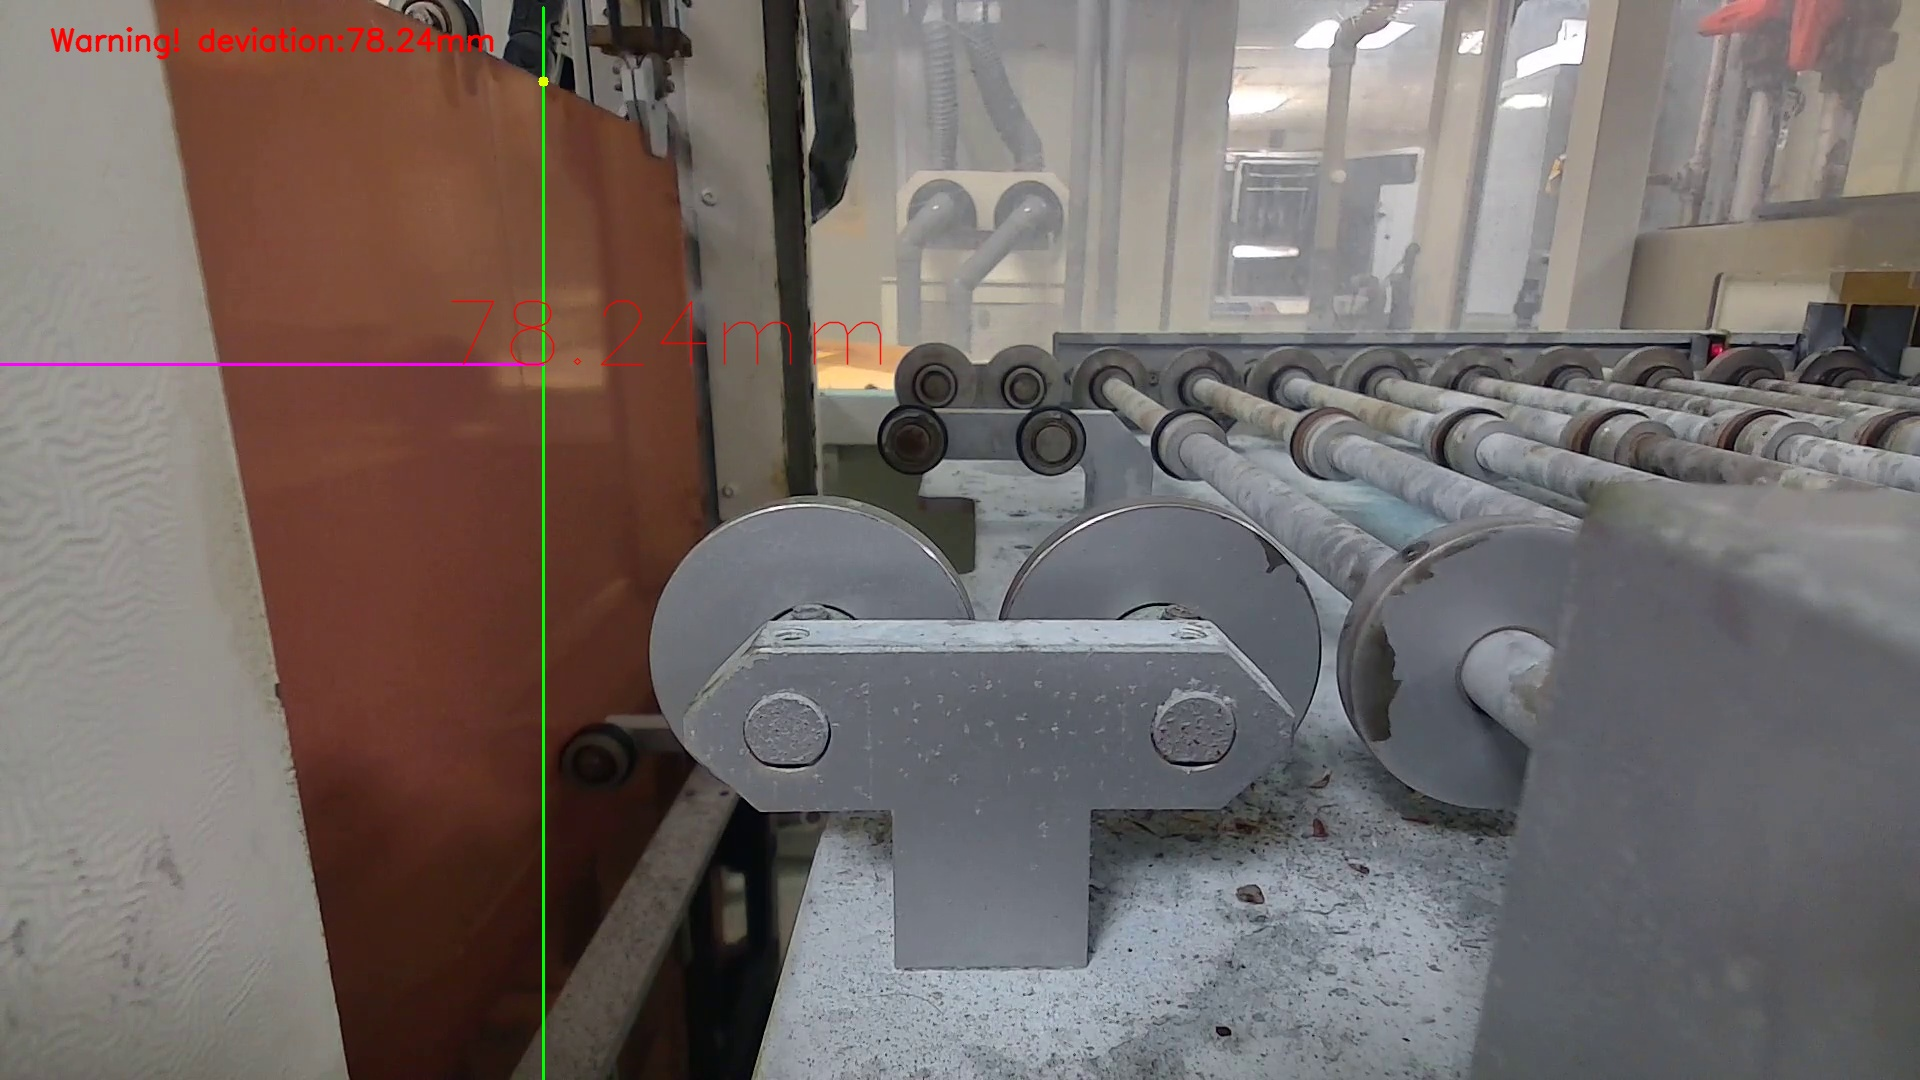
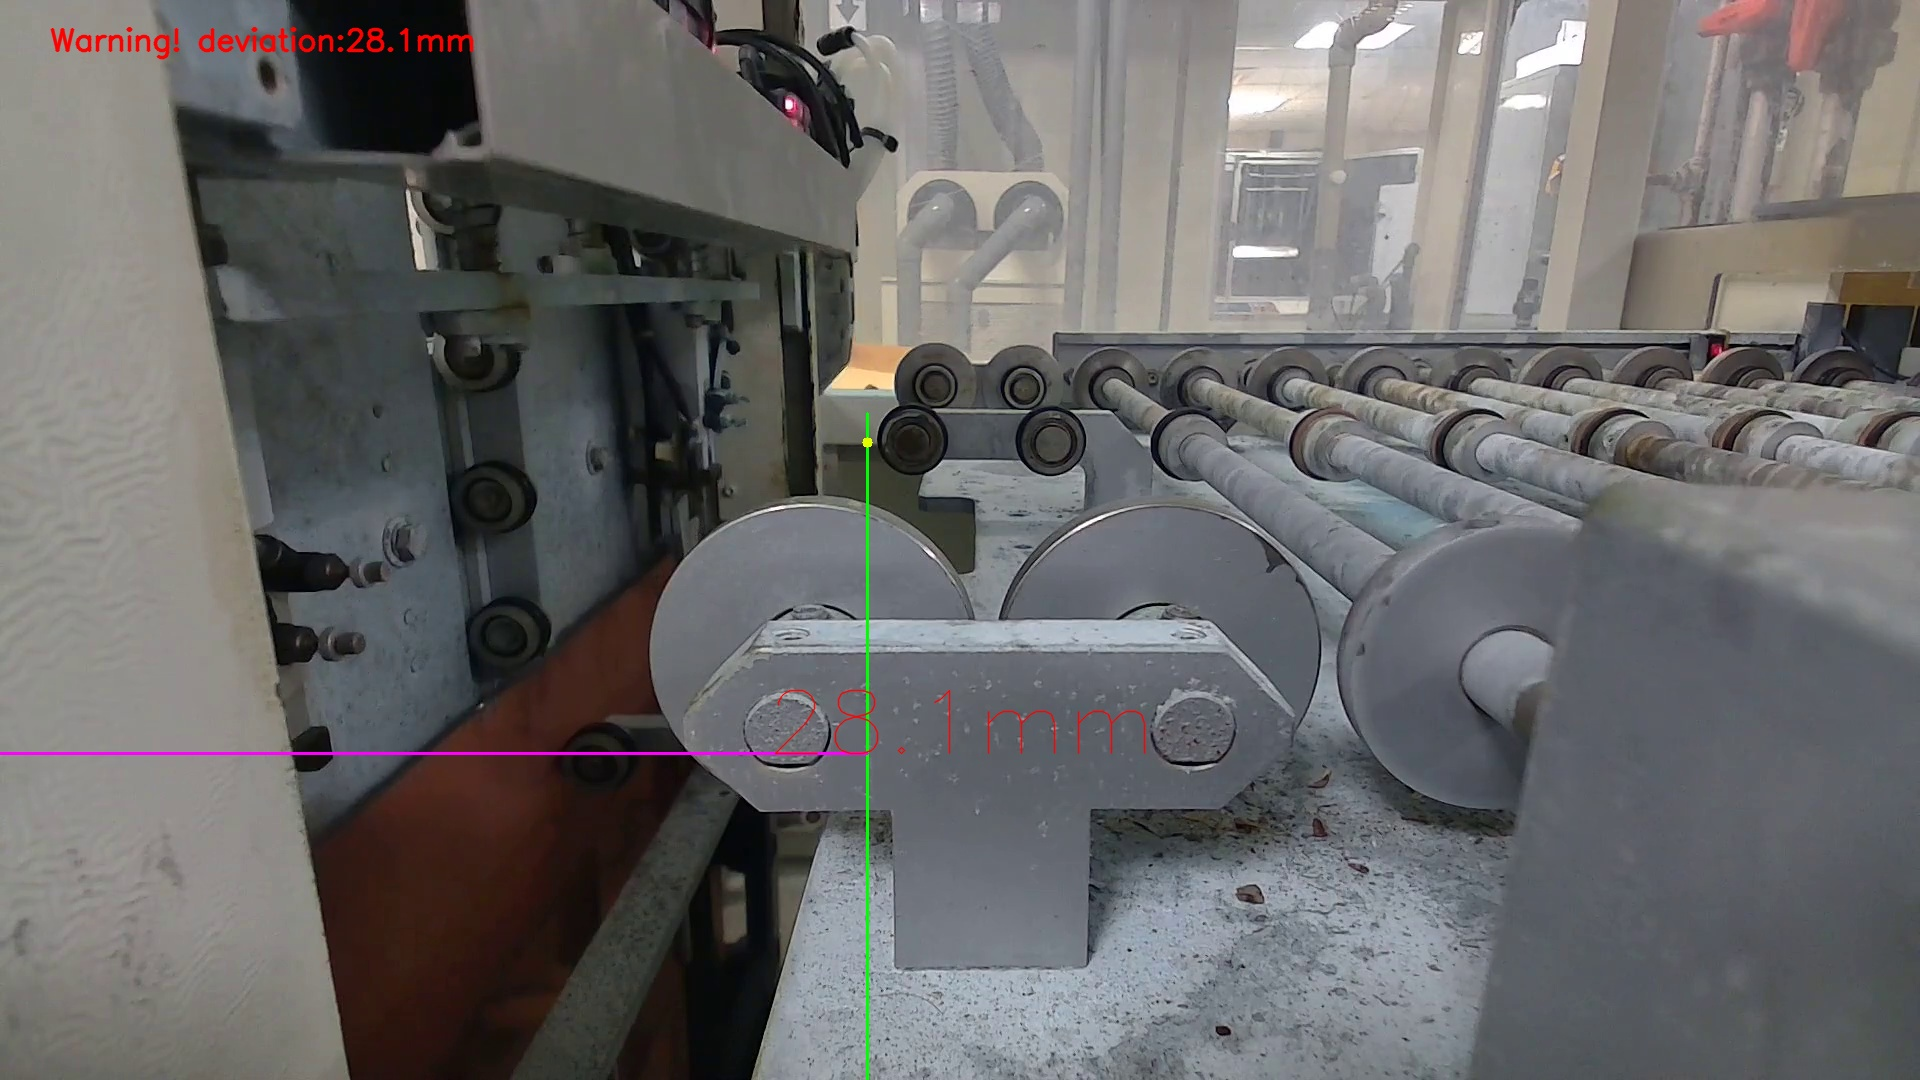
kinsus_0919

diff --git a/pyside/main.py b/pyside/main.py
@@ -116,14 +116,14 @@ class MainWindow(QMainWindow):
         if len_cap != 0:
             for cam in self.cap:   
                 if cam == 0:
-                    status0 ,frame0 = self.cap[cam].get_frame()
+                    status0 ,frame0 = self.cap[cam].get_frame(stream = True)
                     if status0:
                         frame0 = self.webcam_display(frame0)
                         self.ui.label_Cam1.setPixmap(frame0)
                         self.ui.label_Cam1.setScaledContents(True)
                 
                 elif cam == 1:
-                    status1, frame1 = self.cap[cam].get_frame()
+                    status1, frame1 = self.cap[cam].get_frame(stream = True)
                     if status1:
                         frame1 = self.webcam_display(frame1)
                         self.ui.label_Cam2.setPixmap(frame1)
@@ -180,6 +180,7 @@ class MainWindow(QMainWindow):
 #%%        
 height = 1
 class SubWindow(QWidget):
+    
     def __init__(self, parnet=None, camViewFlag=None):
         super(SubWindow, self).__init__(parnet)
         self.initUI()
@@ -206,8 +207,23 @@ class SubWindow(QWidget):
         self.frame_width = self.tabui.label.size().width()
         self.frame_height = self.tabui.label.size().height()    
 
+    def webcam_display(self, frame):
+        ''' 處理OpenCV圖片轉QPixmap '''
+        height, width, depth = frame.shape
+        frame = cv2.cvtColor(frame, cv2.COLOR_RGB2BGR)
+        cvimg = QImage(frame.data, frame.shape[1], frame.shape[0], frame.shape[1] * 3, QImage.Format_RGB888)
+        return QPixmap.fromImage(cvimg)
+
     def tab_item_change(self, item):
-        print(item.row())
+        global height
+        if item.row() == 8:
+            h = int(self.tabui.tableWidget_2.item(item.row(), 0).text())
+            height = h  
+            self.tabui.label.setStyleSheet('')
+        print(height) 
+        
+        self.label_show.painter.drawLine(int(0), int(50), 0, int(100)) 
+        
         ''' 表格內容被修改時 '''
         config.read(r'./cfg/Service.cfg')
         options_num = config.options('Threshold' + str(self.cam_No))
@@ -215,6 +231,8 @@ class SubWindow(QWidget):
         with open(r'./cfg/Service.cfg', 'w') as f:
             config.write(f)
         f.close()
+
+        
             
     def cfg_load(self, str1):      
         ''' 讀取cfg檔資訊 '''
@@ -225,10 +243,17 @@ class SubWindow(QWidget):
         
         for i in range(1 , len(options_num)):
             self.tabui.tableWidget_2.setItem(0, (i-1), QTableWidgetItem(config.get('Threshold'+ str(self.cam_No), options_num[i])))
+
     
     def showCam1(self):
+        
+        self.tabui.Cam2_btn.setStyleSheet("")
+        self.tabui.Cam1_btn.setStyleSheet("background-color: yellow")
+        
         self.tabui.label.setStyleSheet('')
-        self.tabui.label.setPixmap(window.ui.label_Cam1.pixmap())
+        _ ,frame = camDict[0].get_frame(stream = False)
+        frame = self.webcam_display(frame)
+        self.tabui.label.setPixmap(frame)
         self.tabui.label.setScaledContents(True)
         self.label_show.setGeometry(0, 0, self.frame_width, self.frame_height)
         self.tabui.label.setStyleSheet('border-width: 1px;border-style: solid;border-color: rgb(0, 0, 139);')
@@ -240,8 +265,13 @@ class SubWindow(QWidget):
             self.cam_No = 0
                   
     def showCam2(self): 
+        self.tabui.Cam1_btn.setStyleSheet("")
+        self.tabui.Cam2_btn.setStyleSheet("background-color: yellow")
+        
         self.tabui.label.setStyleSheet('')
-        self.tabui.label.setPixmap(window.ui.label_Cam2.pixmap())
+        _ ,frame = camDict[1].get_frame(stream = False)
+        frame = self.webcam_display(frame)
+        self.tabui.label.setPixmap(frame)
         self.tabui.label.setScaledContents(True)
         self.label_show.setGeometry(0, 0, self.frame_width, self.frame_height)
         self.tabui.label.setStyleSheet('border-width: 1px;border-style: solid;border-color: rgb(0, 0, 139);')
@@ -260,63 +290,77 @@ class SubWindow(QWidget):
         self.label_show.setGeometry(0, 0, self.frame_width, self.frame_height)
         self.tabui.label.setStyleSheet('border-width: 1px;border-style: solid;border-color: rgb(0, 0, 139);')
         self.label_show.show()
+        
 #%%
 
 ##########  滑鼠控制 ##########
-class MouseTracker(QLabel):       
-    tab_signal = Signal(str)
+class MouseTracker(QLabel):  
+    global height   
     
+    tab_signal = Signal(str)
     def __init__(self, parnet=None, camViewFlag=None):
         super(MouseTracker, self).__init__(parnet)
         self.pos_x = QPoint()
         self.pos_y = QPoint()
         self.camViewFlag = camViewFlag
         
-        self.pt_height = 0 
+        self.pt_height = height
+        self.pixeltomm = 1 
+        
     #按下鼠標
     def mousePressEvent(self, event):
         self.pos_x = event.pos().x()
         self.pos_y = event.pos().y()
-             
+        self.update()
+#        ###WY
+#        Srvcfg = configparser.ConfigParser()
+#        Srvcfg.read(r'./cfg/Service.cfg')
+#        if self.camViewFlag[0]:
+#            self.pt_height = int(Srvcfg.get('Threshold0', 'detecetheight'))
+#        elif self.camViewFlag[1]:
+#            self.pt_height = int(Srvcfg.get('Threshold1', 'detecetheight'))
     #释放鼠標
     def mouseReleaseEvent(self, event):      
-        reply = QMessageBox.warning(self, 'Warning','確定選擇該位置', QMessageBox.Ok, QMessageBox.Cancel)
+        reply = QMessageBox.question(self, '系統訊息','確定選擇該位置', QMessageBox.Ok, QMessageBox.Cancel)
         if reply == QMessageBox.Ok:
             Srvcfg = configparser.ConfigParser()
             Srvcfg.read(r'./cfg/Service.cfg')
     
             if self.camViewFlag[0]:   # Cam1
                 self.pt_height = int(Srvcfg.get('Threshold0', 'detecetheight'))
-                Srvcfg['Threshold0']['detecetpixel'] = str([self.pos_x, self.pos_y])
+                Srvcfg['Threshold0']['detecetpixel'] = str([int(self.pos_x * 1920/self.size().width()), int(self.pos_y * 1080/self.size().height())])
+                self.pixeltomm = eval(Srvcfg.get('Threshold0', 'pixeltomm'))
                 with open(r'./cfg/Service.cfg', 'w') as f:
                     Srvcfg.write(f)
+
             elif self.camViewFlag[1]:   # Cam2:
                 self.pt_height = int(Srvcfg.get('Threshold1', 'detecetheight'))
-                Srvcfg['Threshold1']['detecetpixel'] = str([self.pos_x, self.pos_y])
+                Srvcfg['Threshold1']['detecetpixel'] = str([int(self.pos_x * 1920/self.size().width()), int(self.pos_y * 1080/self.size().height())])
+                self.pixeltomm = eval(Srvcfg.get('Threshold1', 'pixeltomm'))  
                 with open(r'./cfg/Service.cfg', 'w') as f:
                     Srvcfg.write(f) 
-                    
+
+            for i in range(2):
+                camDict[i].cam.reload_config()
+            event.accept()                    
             self.tab_signal.emit('1') # 發送訊號給setting視窗   
         else:
+            event.ignore()
             pass
-        
         self.update()       
 
     #繪制事件
     def paintEvent(self, event): 
-        global height
-        
+        Srvcfg = configparser.ConfigParser()
+        Srvcfg.read(r'./cfg/Service.cfg')                 
         super().paintEvent(event)
-        painter = QPainter(self)
+        self.painter = QPainter(self)
         if (self.pos_x) and (self.pos_y):
-            painter.setPen(QPen(QColor(255,20,147), 1, Qt.SolidLine))
-            painter.drawLine(int(self.pos_x), int(self.pos_y), 0, int(self.pos_y)) 
-            painter.setPen(QPen(Qt.green, 1, Qt.SolidLine))
-            painter.drawLine(int(self.pos_x), int(self.pos_y) - self.pt_height, int(self.pos_x), 959)    
-
-
-
-    
+            self.painter.setPen(QPen(QColor(255,20,147), 1, Qt.SolidLine))
+            self.painter.drawLine(int(self.pos_x), int(self.pos_y), 0, int(self.pos_y)) 
+            self.painter.setPen(QPen(Qt.green, 1, Qt.SolidLine))
+            self.painter.drawLine(int(self.pos_x), int(self.pos_y) - int(self.pt_height / self.pixeltomm / 1080 * self.size().height()), int(self.pos_x), 1080)    
+        
 if __name__ == '__main__': 
     camDict = {}
     for i in range(2):

diff --git a/pyside/curve.py b/pyside/curve.py
@@ -50,23 +50,6 @@ def save_log(dateText, camID, resultStatus, curvedMEAS):
 
 class Warpdetection():  
     def __init__(self, device):
-        Srvcfg = configparser.ConfigParser()
-        Srvcfg.read('./cfg/Service.cfg')
-        self.substrateLength = eval(Srvcfg.get('Threshold{}'.format(device), 'substrateLength'))
-        self.lowThreshold = eval(Srvcfg.get('Threshold{}'.format(device), 'lowThreshold'))
-        self.highThreshold = eval(Srvcfg.get('Threshold{}'.format(device), 'highThreshold'))
-        self.lowerRed0 = np.array(eval(Srvcfg.get('Threshold{}'.format(device), 'lower_red_0')))
-        self.upperRed0 = np.array(eval(Srvcfg.get('Threshold{}'.format(device), 'upper_red_0')))
-        self.lowerRed1 = np.array(eval(Srvcfg.get('Threshold{}'.format(device), 'lower_red_1')))
-        self.upperRed1 = np.array(eval(Srvcfg.get('Threshold{}'.format(device), 'upper_red_1')))
-        self.pixeltomm = eval(Srvcfg.get('Threshold{}'.format(device), 'pixeltomm'))
-        self.detecetPixel = eval(Srvcfg.get('Threshold{}'.format(device), 'detecetPixel'))
-        detecetHeight = eval(Srvcfg.get('Threshold{}'.format(device), 'detecetHeight'))
-        self.NGThreshold = eval(Srvcfg.get('Threshold{}'.format(device), 'NGThreshold'))
-        self.detecetHeight = int(detecetHeight / self.pixeltomm)
-        self.resultStatus = "init"
-        self.buffer = 1
-
         # 參數初始化
         self.X = []
         self.Y = []
@@ -76,6 +59,26 @@ class Warpdetection():
         self.xCount = 1
         self.result = False
         self.detecet = False
+        self.device = device
+        self.reload_config()
+
+    def reload_config(self):
+        Srvcfg = configparser.ConfigParser()
+        Srvcfg.read('./cfg/Service.cfg')
+        self.substrateLength = eval(Srvcfg.get('Threshold{}'.format(self.device), 'substrateLength'))
+        self.lowThreshold = eval(Srvcfg.get('Threshold{}'.format(self.device), 'lowThreshold'))
+        self.highThreshold = eval(Srvcfg.get('Threshold{}'.format(self.device), 'highThreshold'))
+        self.lowerRed0 = np.array(eval(Srvcfg.get('Threshold{}'.format(self.device), 'lower_red_0')))
+        self.upperRed0 = np.array(eval(Srvcfg.get('Threshold{}'.format(self.device), 'upper_red_0')))
+        self.lowerRed1 = np.array(eval(Srvcfg.get('Threshold{}'.format(self.device), 'lower_red_1')))
+        self.upperRed1 = np.array(eval(Srvcfg.get('Threshold{}'.format(self.device), 'upper_red_1')))
+        self.pixeltomm = eval(Srvcfg.get('Threshold{}'.format(self.device), 'pixeltomm'))
+        self.detecetPixel = eval(Srvcfg.get('Threshold{}'.format(self.device), 'detecetPixel'))
+        detecetHeight = eval(Srvcfg.get('Threshold{}'.format(self.device), 'detecetHeight'))
+        self.NGThreshold = eval(Srvcfg.get('Threshold{}'.format(self.device), 'NGThreshold'))
+        self.buffer = eval(Srvcfg.get('Threshold{}'.format(self.device), 'buffer'))
+        self.detecetHeight = int(detecetHeight / self.pixeltomm)
+        self.resultStatus = "init"
 
     def moving_average(self):
         if len(self.X) < 10 :
@@ -187,7 +190,6 @@ class Warpdetection():
                     #記錄該基板最高點影像
                     if ((round(abs((self.maxPixel[0]- self.detecetHeight) * self.pixeltomm) - self.buffer ,2)) > self.highest):
                         self.highest = (round(abs((self.maxPixel[0]- self.detecetHeight) * self.pixeltomm) - self.buffer ,2))
-                        print(device, 'ng', self.highest)
                         cv2.imwrite('Highest_{}.jpg'.format(device), showFrame)    # 基板最高翹曲影像
                         self.highest_frame = showFrame
                         self.resultStatus = "NG"
@@ -199,7 +201,6 @@ class Warpdetection():
                     #記錄該基板最高點影像
                     if ((round(abs((self.maxPixel[0]- self.detecetHeight) * self.pixeltomm) - self.buffer ,2)) > self.highest):
                         self.highest = (round(abs((self.maxPixel[0]- self.detecetHeight) * self.pixeltomm) - self.buffer ,2))
-                        print(device, 'ok', self.highest)
                         cv2.imwrite('Highest_{}.jpg'.format(device), showFrame)    # 基板最高翹曲影像
                         self.highest_frame = showFrame
                         self.resultStatus = "OK"
@@ -213,11 +214,11 @@ class Warpdetection():
                         try:
                             #輸出翹曲曲線
                             if len(self.YAverage)!=0:
-                                self.YAverage[:11] = self.Y[:11]
-                                self.YAverage[-6:] = self.Y[-6:]
-                                plt.plot(self.X[2:-4], self.YAverage[2:-4], "r-", linewidth = 1.0)
+                                #self.YAverage[:11] = self.Y[:11]
+                                #self.YAverage[-6:] = self.Y[-6:]
+                                plt.plot(self.X[:-1], self.Y[:-1], "r-", linewidth = 1.0)
                                 plt.hlines(0, 0, self.xCount, color = "green")
-                                plt.hlines((self.NGThreshold+2) / self.pixeltomm, 0, self.xCount, color = "blue", linestyles = '--')
+                                plt.hlines((self.NGThreshold + self.buffer) / self.pixeltomm, 0, self.xCount, color = "blue", linestyles = '--')
                                 plt.ylim(-10, 100)
                                 # plt.ylim(1 - y, 1080 - y)
                                 plt.gca().invert_xaxis()

diff --git a/pyside/camera.py b/pyside/camera.py
@@ -9,7 +9,7 @@ class Camera:
     def __init__(self, fps=30, device = 0):
         self.isrunning = True
         self.status = False
-        self.cap = cv2.VideoCapture(r'.\0906demo.mp4')
+        self.cap = cv2.VideoCapture('./0906demo.mp4')
         self.cap.set(6, cv2.VideoWriter_fourcc(	'M', 'J', 'P', 'G'	))
         #self.cap.set(5, 30)
         self.cap.set(3, 1920)
@@ -38,16 +38,24 @@ class Camera:
         # logger.debug("Stopping thread")
         self.isrunning = False
 
-    def get_frame(self):
+    def get_frame(self ,stream = True):
         ### Camera有讀到影像
-        if self.status:
-            # return cv2.resize(self.frame, (1280, 720))
-            result = self.cam.createBackground(self.device, self.frame)
-            return self.status, result
-        ### Camera讀不到影像，讀預設not_found影像
+        if stream:
+            if self.status:
+                # return cv2.resize(self.frame, (1280, 720))
+                result = self.cam.createBackground(self.device, self.frame)
+                return self.status, result
+            ### Camera讀不到影像，讀預設not_found影像
+            else:
+                print("no image...")
+                return self.status, None
+                # with open("config/not_found.jpeg","rb") as f:
+                #     img = f.read()
+                # return img
         else:
-#            print("no image...")
-            return self.status, None
-            # with open("config/not_found.jpeg","rb") as f:
-            #     img = f.read()
-            # return img
+            if self.status:
+                return self.status, self.frame
+            ### Camera讀不到影像，讀預設not_found影像
+            else:
+                print("no image...")
+                return self.status, None

diff --git a/pyside/Setting_UI.py b/pyside/Setting_UI.py
@@ -102,8 +102,8 @@ class Ui_Form_Setting(object):
 #        __qtablewidgetitem8 = QTableWidgetItem()
 #        self.tableWidget_2.setHorizontalHeaderItem(1, __qtablewidgetitem8)
         
-        if (self.tableWidget_2.rowCount() < 10):
-            self.tableWidget_2.setRowCount(10)
+        if (self.tableWidget_2.rowCount() < 11):
+            self.tableWidget_2.setRowCount(11)
         __qtablewidgetitem9 = QTableWidgetItem()
         self.tableWidget_2.setVerticalHeaderItem(0, __qtablewidgetitem9)
         __qtablewidgetitem10 = QTableWidgetItem()
@@ -124,6 +124,8 @@ class Ui_Form_Setting(object):
         self.tableWidget_2.setVerticalHeaderItem(8, __qtablewidgetitem17)
         __qtablewidgetitem18 = QTableWidgetItem()
         self.tableWidget_2.setVerticalHeaderItem(9, __qtablewidgetitem18)
+        __qtablewidgetitem19 = QTableWidgetItem()
+        self.tableWidget_2.setVerticalHeaderItem(10, __qtablewidgetitem19)
         self.tableWidget_2.setObjectName(u"tableWidget_2")
         self.tableWidget_2.setMinimumSize(QSize(0, 0))
         self.tableWidget_2.setSizeAdjustPolicy(QAbstractScrollArea.AdjustToContents)
@@ -201,6 +203,8 @@ class Ui_Form_Setting(object):
         ___qtablewidgetitem17.setText(QCoreApplication.translate("Form", u"detecet height", None));
         ___qtablewidgetitem18 = self.tableWidget_2.verticalHeaderItem(9)
         ___qtablewidgetitem18.setText(QCoreApplication.translate("Form", u"NG Threshold", None));
+        ___qtablewidgetitem19 = self.tableWidget_2.verticalHeaderItem(10)
+        ___qtablewidgetitem19.setText(QCoreApplication.translate("Form", u"buffer", None));
         
         self.label.setText(QCoreApplication.translate("Form", u"TextLabel", None))
     # retranslateUi

diff --git a/pyside/Main_UI.py b/pyside/Main_UI.py
@@ -78,6 +78,8 @@ class Ui_MainWindow(object):
         self.Cam1_title = QLabel(self.centralwidget)
         self.Cam1_title.setObjectName(u"Cam1_title")
         self.Cam1_title.setMinimumSize(QSize(300, 14))
+        self.Cam1_title.setStyleSheet('color: Blue')
+        self.Cam1_title.setFont(QFont("Roman times", 12, QFont.Bold))
         self.verticalLayout.addWidget(self.Cam1_title)
         
         self.horizontalLayout = QHBoxLayout()
@@ -117,6 +119,8 @@ class Ui_MainWindow(object):
         self.Cam2_title = QLabel(self.centralwidget)
         self.Cam2_title.setObjectName(u"Cam2_title")
         self.Cam2_title.setMinimumSize(QSize(300, 14))
+        self.Cam2_title.setStyleSheet('color: Blue')
+        self.Cam2_title.setFont(QFont("Roman times", 12, QFont.Bold))
         self.verticalLayout.addWidget(self.Cam2_title)
 
         self.horizontalLayout_2 = QHBoxLayout()
